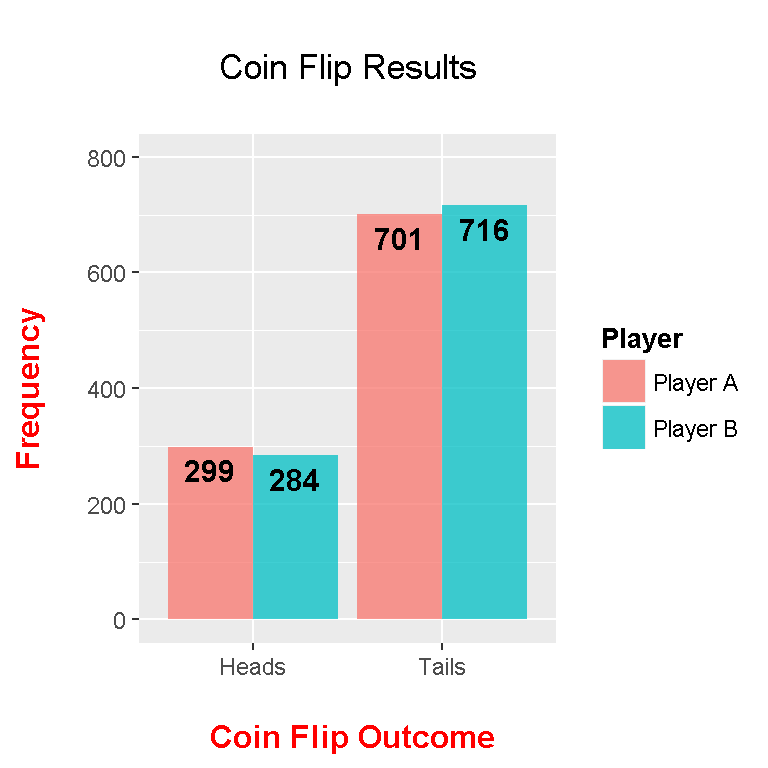
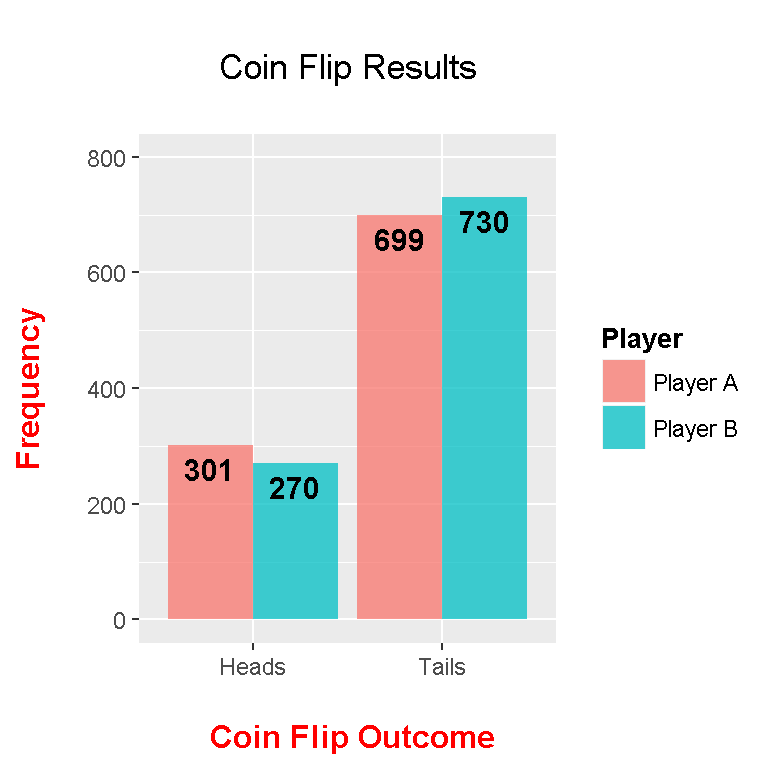
Added more files to the website.

Changed region(s): [[0.25, 0.5938, 0.4375, 0.6562], [0.5625, 0.25, 0.6875, 0.3125], [0.4688, 0.2812, 0.5625, 0.3438]]

diff --git a/rvisual-corrplots.html b/rvisual-corrplots.html
@@ -297,6 +297,7 @@ summary(gamb_data)</code></pre>
 colnames(gamb_data) &lt;- c(&quot;Sex&quot;, &quot;Status&quot;, &quot;Income&quot;, &quot;Verbal&quot;, &quot;Gamble&quot;)</code></pre>
 <p> </p>
 <p>In base R, a correlation table can be created by using the <code>cor()</code> function.</p>
+<p> </p>
 <pre class="r"><code># Correlation
 
 corr_gamb &lt;- cor(gamb_data)
@@ -434,29 +435,69 @@ ggplot(data = melted_gamb, aes(x = Var1, y = Var2, fill = value)) +
 <p>Version Two: Upper Triangular Correlation Plot using ggplot2</p>
 <p>The full correlation matrix provides more than enough information. An upper triangular matrix of the correlation matrix provides less cluster and there is no loss of information. (Recall that the correlation matrix is a symmetric matrix so we can afford to drop the multiple entries.)</p>
 <p>For upper and lower triangular matrices, there is some additional data manipulation work needed to have the data prepared for plotting.</p>
-<blockquote>
-<h1 id="create-new-copy">Create new copy:</h1>
-<p>upper_gamb &lt;- corr_gamb</p>
-<h1 id="make-upper-triangular-matrix-by-setting-na-to-lower-triangular-part">Make upper triangular matrix by setting NA to lower triangular part:</h1>
-<p>upper_gamb[lower.tri(upper_gamb)] &lt;- NA</p>
-<p>upper_gamb Sex Status Income Verbal Gamble Sex 1 -0.4809353 -0.1154586 -0.1069762 -0.40780533 Status NA 1.0000000 -0.2750340 0.5316102 -0.05042081 Income NA NA 1.0000000 -0.1755707 0.62207690 Verbal NA NA NA 1.0000000 -0.22005619 Gamble NA NA NA NA 1.00000000</p>
-<h1 id="melt-this-upper-triangular-matrix-and-remove-na-values">Melt this upper triangular matrix and remove NA values:</h1>
-<p>up_m_gamb &lt;- melt(upper_gamb, na.rm = TRUE)</p>
-<p>head(up_m_gamb) Var1 Var2 value 1 Sex Sex 1.0000000 6 Sex Status -0.4809353 7 Status Status 1.0000000 11 Sex Income -0.1154586 12 Status Income -0.2750340 13 Income Income 1.0000000 tail(up_m_gamb) Var1 Var2 value 19 Verbal Verbal 1.00000000 21 Sex Gamble -0.40780533 22 Status Gamble -0.05042081 23 Income Gamble 0.62207690 24 Verbal Gamble -0.22005619 25 Gamble Gamble 1.00000000 # Ggplot upper triangular correlation matrix:</p>
-<p>ggplot(data = up_m_gamb, aes(x = Var1, y = Var2, fill = value)) + + geom_tile() + + scale_fill_gradient2(midpoint = 0.5, mid =“grey70”, + limits = c(-1, +1)) + + labs(title = “Correlation Matrix On Teen Gambling Data ”, + x = “”, y = “”, fill = “Correlation Measure”) + + theme(plot.title = element_text(hjust = 0.5, colour = “blue”), + axis.title.x = element_text(face=“bold”, colour=“darkgreen”, size = 12), + axis.title.y = element_text(face=“bold”, colour=“darkgreen”, size = 12), + legend.title = element_text(face=“bold”, colour=“brown”, size = 10)) + + geom_text(aes(x = Var1, y = Var2, label = round(value, 2)), color = “black”, + fontface = “bold”, size = 5)</p>
-</blockquote>
+<p> </p>
+<pre class="r"><code># Create new copy:
+
+upper_gamb &lt;- corr_gamb
+
+# Make upper triangular matrix by setting NA to lower triangular part:
+upper_gamb[lower.tri(upper_gamb)] &lt;- NA
+
+upper_gamb</code></pre>
+<pre><code>##        Sex     Status     Income     Verbal      Gamble
+## Sex      1 -0.4809353 -0.1154586 -0.1069762 -0.40780533
+## Status  NA  1.0000000 -0.2750340  0.5316102 -0.05042081
+## Income  NA         NA  1.0000000 -0.1755707  0.62207690
+## Verbal  NA         NA         NA  1.0000000 -0.22005619
+## Gamble  NA         NA         NA         NA  1.00000000</code></pre>
+<p> </p>
+<pre class="r"><code># Melt this upper triangular matrix and remove NA values:
+
+up_m_gamb &lt;- melt(upper_gamb, na.rm = TRUE)
+
+head(up_m_gamb)</code></pre>
+<pre><code>##      Var1   Var2      value
+## 1     Sex    Sex  1.0000000
+## 6     Sex Status -0.4809353
+## 7  Status Status  1.0000000
+## 11    Sex Income -0.1154586
+## 12 Status Income -0.2750340
+## 13 Income Income  1.0000000</code></pre>
+<pre class="r"><code>tail(up_m_gamb)</code></pre>
+<pre><code>##      Var1   Var2       value
+## 19 Verbal Verbal  1.00000000
+## 21    Sex Gamble -0.40780533
+## 22 Status Gamble -0.05042081
+## 23 Income Gamble  0.62207690
+## 24 Verbal Gamble -0.22005619
+## 25 Gamble Gamble  1.00000000</code></pre>
+<pre class="r"><code># Ggplot upper triangular correlation matrix:
+
+ggplot(data = up_m_gamb, aes(x = Var1, y = Var2, fill = value)) +
+  geom_tile() +
+  scale_fill_gradient2(midpoint = 0.5, mid =&quot;grey70&quot;, limits = c(-1, +1)) +
+  labs(title = &quot;Correlation Matrix \n On Teen Gambling Data \n&quot;, 
+  x = &quot;&quot;, y = &quot;&quot;, fill = &quot;Correlation \n Measure&quot;) +
+  theme(plot.title = element_text(hjust = 0.5, colour = &quot;blue&quot;), 
+  axis.title.x = element_text(face=&quot;bold&quot;, colour=&quot;darkgreen&quot;, size = 12),
+  axis.title.y = element_text(face=&quot;bold&quot;, colour=&quot;darkgreen&quot;, size = 12),
+  legend.title = element_text(face=&quot;bold&quot;, colour=&quot;brown&quot;, size = 10)) +
+  geom_text(aes(x = Var1, y = Var2, label = round(value, 2)), color = &quot;black&quot;, 
+  fontface = &quot;bold&quot;, size = 5)</code></pre>
+<p><img src="rvisual-corrplots_files/figure-html/unnamed-chunk-16-1.png" width="384" /></p>
+<p> </p>
 <p>Having a upper triangular matrix version of the correlation matrix is less intimidating and it is easier to read. You may have to explain that for example that the correlation of income and status and the correlation of status and income are the same (due to symmetry).</p>
 <p>(This upper triangular matrix form is not exactly like the one from linear algebra but I think the above image is good enough for displaying purposes.)</p>
 <p>Version Three: Lower Triangular Correlation Plot using ggplot2</p>
 <p>Here is the code and output for the lower triangular part of the correlation matrix. The code is similar to the upper triangular case.</p>
 <blockquote>
 <h2 id="version-three-lower-triangular-correlation-plot-using-ggplot2">Version Three: Lower Triangular Correlation Plot using ggplot2:</h2>
-<h1 id="create-new-copy-1">Create new copy:</h1>
+<h1 id="create-new-copy">Create new copy:</h1>
 <p>lower_gamb &lt;- corr_gamb</p>
 <h1 id="make-lower-triangular-matrix-by-setting-na-to-upper-triangular-part">Make lower triangular matrix by setting NA to upper triangular part:</h1>
 <p>lower_gamb[upper.tri(lower_gamb)] &lt;- NA</p>
 <p>lower_gamb Sex Status Income Verbal Gamble Sex 1.0000000 NA NA NA NA Status -0.4809353 1.00000000 NA NA NA Income -0.1154586 -0.27503402 1.0000000 NA NA Verbal -0.1069762 0.53161022 -0.1755707 1.0000000 NA Gamble -0.4078053 -0.05042081 0.6220769 -0.2200562 1</p>
-<h1 id="melt-this-upper-triangular-matrix-and-remove-na-values-1">Melt this upper triangular matrix and remove NA values:</h1>
+<h1 id="melt-this-upper-triangular-matrix-and-remove-na-values">Melt this upper triangular matrix and remove NA values:</h1>
 <p>lower_m_gamb &lt;- melt(lower_gamb, na.rm = TRUE)</p>
 <p>head(lower_m_gamb) Var1 Var2 value 1 Sex Sex 1.0000000 2 Status Sex -0.4809353 3 Income Sex -0.1154586 4 Verbal Sex -0.1069762 5 Gamble Sex -0.4078053 7 Status Status 1.0000000 tail(lower_m_gamb) Var1 Var2 value 13 Income Income 1.0000000 14 Verbal Income -0.1755707 15 Gamble Income 0.6220769 19 Verbal Verbal 1.0000000 20 Gamble Verbal -0.2200562 25 Gamble Gamble 1.0000000 # Ggplot lower triangular correlation matrix:</p>
 </blockquote>

diff --git a/rvisual-pokemon-table.html b/rvisual-pokemon-table.html
@@ -11,7 +11,7 @@
 
 
 
-<title>Creating A Pokémon (Gen 6+) Types Table In R</title>
+<title>Creating A Pokemon (Gen 6+) Types Table In R</title>
 
 <script src="site_libs/jquery-1.11.3/jquery.min.js"></script>
 <meta name="viewport" content="width=device-width, initial-scale=1" />
@@ -205,7 +205,7 @@ $(document).ready(function () {
 
 
 
-<h1 class="title toc-ignore">Creating A Pokémon (Gen 6+) Types Table In R</h1>
+<h1 class="title toc-ignore">Creating A Pokemon (Gen 6+) Types Table In R</h1>
 
 </div>
 
@@ -247,7 +247,7 @@ $(document).ready(function () {
 <p> </p>
 </div>
 <div id="a-pokemon-types-table-gen-6" class="section level3">
-<h3><u>A Pokémon Types Table (Gen 6+)</u></h3>
+<h3><u>A Pokemon Types Table (Gen 6+)</u></h3>
 <p> </p>
 <p>The <code>geom_tile()</code> function from R’s ggplot2 package allows for grid plots and tables.</p>
 <p>In R you can make something as close to this:</p>
@@ -260,9 +260,9 @@ $(document).ready(function () {
 <p> </p>
 </div>
 <div id="creating-a-pokemon-types-table-in-r" class="section level3">
-<h3><u>Creating A Pokémon Types Table In R</u></h3>
+<h3><u>Creating A Pokemon Types Table In R</u></h3>
 <p> </p>
-<p>We start with creating the table of Pokémon Types with their damage multipliers. In this page we include all the type including Dark, Steel and the Fairy type.</p>
+<p>We start with creating the table of Pokemon Types with their damage multipliers. In this page we include all the type including Dark, Steel and the Fairy type.</p>
 <p>This first line of R code is for creating the Pokémon Types as a vector.</p>
 <p> </p>
 <pre class="r"><code># Reference: http://pokemondb.net/type
@@ -280,7 +280,7 @@ pokemonTypes&lt;- c(&quot;Normal&quot;, &quot;Fire&quot;, &quot;Water&quot;, &qu
 length(pokemonTypes)</code></pre>
 <pre><code>## [1] 18</code></pre>
 <p> </p>
-<p>Since there are 18 Pokémon types, we would need 18 x 18 = 324 cases in our data table. These 324 cases translates to 324 rows in our table. The table could be inputted manually but that would take too long. Instead, the use of Cartesian products from the mathematical field of Set Theory along with R’s <code>expand.grid()</code> function is applied. Please refer to the code and output below.</p>
+<p>Since there are 18 Pokemon types, we would need 18 x 18 = 324 cases in our data table. These 324 cases translates to 324 rows in our table. The table could be inputted manually but that would take too long. Instead, the use of Cartesian products from the mathematical field of Set Theory along with R’s <code>expand.grid()</code> function is applied. Please refer to the code and output below.</p>
 <p> </p>
 <pre class="r"><code># Create Cartesian Product Type Table: 
 # Attacker in Column 1 and Defender in Column 2
@@ -288,7 +288,7 @@ length(pokemonTypes)</code></pre>
 pokeTable &lt;- expand.grid(pokemonTypes, pokemonTypes)
 pokeTable &lt;- as.data.frame(pokeTable)</code></pre>
 <p> </p>
-<p>We can check the dimensions of this Cartesian product table of Pokémon types.</p>
+<p>We can check the dimensions of this Cartesian product table of Pokemon types.</p>
 <p> </p>
 <pre class="r"><code># Check dimensions (18 x 18 = 324 combinations):
 
@@ -440,6 +440,7 @@ pokeTable[289:306, 3] &lt;- c(1/2, 2, 1, 1, 1/2, 1/2, 2, 0, 2, 1/2, 1/2, 1/2, 1/
 pokeTable[307:324, 3] &lt;- c(1, 1, 1, 1, 1, 1, 1/2, 2, 1, 1, 1, 1/2, 1, 1, 0, 1/2, 2, 1)</code></pre>
 <p> </p>
 <p>This next piece of code involves having the values from the third column as factors. In addition, I check the structure of the table and use the <code>head()</code> and <code>tail()</code> functions.</p>
+<p> </p>
 <pre class="r"><code># Have the multipliers in column 3 as factors:
 
 pokeTable[, 3] &lt;- as.factor(pokeTable[, 3])
@@ -486,14 +487,14 @@ head(pokeTable, n = 10)</code></pre>
 <hr />
 </div>
 <div id="creating-the-pokemon-types-matrix-plot-in-r" class="section level3">
-<h3><u>Creating The Pokémon Types Matrix Plot In R</u></h3>
+<h3><u>Creating The Pokemon Types Matrix Plot In R</u></h3>
 <p>&amp;nbsp</p>
 <p>The table of Pokémon Types and damage multipliers is now ready for plotting purposes.</p>
 <p>The ggplot2 package in R for data visualization is first loaded.</p>
 <p>&amp;nbsp</p>
 <pre class="r"><code>library(ggplot2)</code></pre>
 <p>&amp;nbsp</p>
-<p>Here is the code and output for the Pokémon types matrix plot. In this plot, the defending Pokémon types are on the x-axis (horizontal) and the attacking move type is on the y-axis (side/vertical).</p>
+<p>Here is the code and output for the Pokemon types matrix plot. In this plot, the defending Pokemon types are on the x-axis (horizontal) and the attacking move type is on the y-axis (side/vertical).</p>
 <p> </p>
 <pre class="r"><code>## Attack Type on x-axis and Defense Type on y-axis with x-axis labels on top:
 
@@ -521,12 +522,12 @@ ggplot(pokeTable,aes(x = pokeTable[, 2],y = pokeTable[, 1], fill = pokeTable[, 3
 <p>There are dual-typed Pokemon tables out there but you could use the single type table twice. As an example, an Ice type move to a Grass and Water type would deal normal damage (x1) as we have the multipliers of 2 and 1/2.</p>
 <p><strong>Simple Table Observations</strong></p>
 <ul>
-<li>One could use these types of tables to study type matchups for Pokémon selections in certain video games and competitions.</li>
-<li>The Steel Type is still a very solid defensive choice as a lot of attacks do half damage to Steel types.</li>
-<li>Poison as an attacking type is not very great despite its advantage over the Fairy type.</li>
-<li>It is somewhat difficult to pick out the best attacking types. Candidates include Ground, Fire, Ice and Rock types.</li>
-<li>The Fairy type is okay for attacking. Its defense is decent as Dark, Fighting and Bug attacks are not very effective versus Fairy types. Dragon attacks have no effect on Fairy types. Only * Steel and Poison moves are super effective versus Fairy.</li>
-<li>The Fire type is a good defensive type as well.</li>
+<li><p>One could use these types of tables to study type matchups for Pokémon selections in certain video games and competitions.</p></li>
+<li><p>The Steel Type is still a very solid defensive choice as a lot of attacks do half damage to Steel types.</p></li>
+<li><p>Poison as an attacking type is not very great despite its advantage over the Fairy type.</p></li>
+<li><p>It is somewhat difficult to pick out the best attacking types. Candidates include Ground, Fire, Ice and Rock types.</p></li>
+<li><p>The Fairy type is okay for attacking. Its defense is decent as Dark, Fighting and Bug attacks are not very effective versus Fairy types. Dragon attacks have no effect on Fairy types. Only * Steel and Poison moves are super effective versus Fairy.</p></li>
+<li><p>The Fire type is a good defensive type as well.</p></li>
 </ul>
 </div>
 

diff --git a/rvisual-scatterplots-ggvis.html b/rvisual-scatterplots-ggvis.html
@@ -349,27 +349,27 @@ ggvis(x = ~pop_size, y = ~internet_users) %&gt;%
   add_axis(&quot;x&quot;, title = &quot;Population Size (In Hundred Thousands)&quot;,  title_offset = 50) %&gt;%
   add_axis(&quot;y&quot;, title = &quot;Number of Internet Users (In Hundred Thousands)&quot;,title_offset = 50)</code></pre>
 <pre><code>## Guessing formula = internet_users ~ pop_size</code></pre>
-<div id="plot_id252003560-container" class="ggvis-output-container">
-<div id="plot_id252003560" class="ggvis-output"></div>
+<div id="plot_id799889604-container" class="ggvis-output-container">
+<div id="plot_id799889604" class="ggvis-output"></div>
 <div class="plot-gear-icon">
 <nav class="ggvis-control">
 <a class="ggvis-dropdown-toggle" title="Controls" onclick="return false;"></a>
 <ul class="ggvis-dropdown">
 <li>
 Renderer: 
-<a id="plot_id252003560_renderer_svg" class="ggvis-renderer-button" onclick="return false;" data-plot-id="plot_id252003560" data-renderer="svg">SVG</a>
+<a id="plot_id799889604_renderer_svg" class="ggvis-renderer-button" onclick="return false;" data-plot-id="plot_id799889604" data-renderer="svg">SVG</a>
  | 
-<a id="plot_id252003560_renderer_canvas" class="ggvis-renderer-button" onclick="return false;" data-plot-id="plot_id252003560" data-renderer="canvas">Canvas</a>
+<a id="plot_id799889604_renderer_canvas" class="ggvis-renderer-button" onclick="return false;" data-plot-id="plot_id799889604" data-renderer="canvas">Canvas</a>
 </li>
 <li>
-<a id="plot_id252003560_download" class="ggvis-download" data-plot-id="plot_id252003560">Download</a>
+<a id="plot_id799889604_download" class="ggvis-download" data-plot-id="plot_id799889604">Download</a>
 </li>
 </ul>
 </nav>
 </div>
 </div>
 <script type="text/javascript">
-var plot_id252003560_spec = {
+var plot_id799889604_spec = {
   "data": [
     {
       "name": ".0",
@@ -573,7 +573,7 @@ var plot_id252003560_spec = {
   },
   "handlers": null
 };
-ggvis.getPlot("plot_id252003560").parseSpec(plot_id252003560_spec);
+ggvis.getPlot("plot_id799889604").parseSpec(plot_id799889604_spec);
 </script>
 <p> </p>
 <p>Above is the visual of the scatterplot and a linear model (“line of best fit”). If we want the linear model in a more mathematical form such as <span class="math inline">\(y = mx + b\)</span> we run this code.</p>
@@ -624,27 +624,27 @@ internet_user_data %&gt;%
   add_axis(&quot;x&quot;, title = &quot;Number of Internet Users (In Hundred Thousands)&quot;, title_offset = 50) %&gt;%
   add_axis(&quot;y&quot;, title = &quot;Number of Facebook Users (In Hundred Thousands)&quot;,title_offset = 50)</code></pre>
 <pre><code>## Guessing formula = facebook_users ~ internet_users</code></pre>
-<div id="plot_id881433065-container" class="ggvis-output-container">
-<div id="plot_id881433065" class="ggvis-output"></div>
+<div id="plot_id778860462-container" class="ggvis-output-container">
+<div id="plot_id778860462" class="ggvis-output"></div>
 <div class="plot-gear-icon">
 <nav class="ggvis-control">
 <a class="ggvis-dropdown-toggle" title="Controls" onclick="return false;"></a>
 <ul class="ggvis-dropdown">
 <li>
 Renderer: 
-<a id="plot_id881433065_renderer_svg" class="ggvis-renderer-button" onclick="return false;" data-plot-id="plot_id881433065" data-renderer="svg">SVG</a>
+<a id="plot_id778860462_renderer_svg" class="ggvis-renderer-button" onclick="return false;" data-plot-id="plot_id778860462" data-renderer="svg">SVG</a>
  | 
-<a id="plot_id881433065_renderer_canvas" class="ggvis-renderer-button" onclick="return false;" data-plot-id="plot_id881433065" data-renderer="canvas">Canvas</a>
+<a id="plot_id778860462_renderer_canvas" class="ggvis-renderer-button" onclick="return false;" data-plot-id="plot_id778860462" data-renderer="canvas">Canvas</a>
 </li>
 <li>
-<a id="plot_id881433065_download" class="ggvis-download" data-plot-id="plot_id881433065">Download</a>
+<a id="plot_id778860462_download" class="ggvis-download" data-plot-id="plot_id778860462">Download</a>
 </li>
 </ul>
 </nav>
 </div>
 </div>
 <script type="text/javascript">
-var plot_id881433065_spec = {
+var plot_id778860462_spec = {
   "data": [
     {
       "name": ".0",
@@ -848,7 +848,7 @@ var plot_id881433065_spec = {
   },
   "handlers": null
 };
-ggvis.getPlot("plot_id881433065").parseSpec(plot_id881433065_spec);
+ggvis.getPlot("plot_id778860462").parseSpec(plot_id778860462_spec);
 </script>
 <p> </p>
 <p>The slope here is positive (upward sloping) and is less steep (more flat). Let’s find out what the linear model is.</p>

diff --git a/rvisual-sidebyside-bar.html b/rvisual-sidebyside-bar.html
@@ -243,10 +243,10 @@ flip_results_B &lt;- sample(c(&quot;Heads&quot;, &quot;Tails&quot;), size = 1000
 table(flip_results_A) ; table(flip_results_B)</code></pre>
 <pre><code>## flip_results_A
 ## Heads Tails 
-##   299   701</code></pre>
+##   301   699</code></pre>
 <pre><code>## flip_results_B
 ## Heads Tails 
-##   284   716</code></pre>
+##   270   730</code></pre>
 <p> </p>
 <p>The next lines of code is about putting the results together in a data table format.</p>
 <p> </p>
@@ -266,17 +266,17 @@ flip_results &lt;- data.frame(Player = factor(column1, levels = c(&quot;Player A
 head(flip_results); tail(flip_results)</code></pre>
 <pre><code>##     Player Result
 ## 1 Player A  Tails
-## 2 Player A  Heads
+## 2 Player A  Tails
 ## 3 Player A  Tails
-## 4 Player A  Tails
+## 4 Player A  Heads
 ## 5 Player A  Tails
-## 6 Player A  Tails</code></pre>
+## 6 Player A  Heads</code></pre>
 <pre><code>##        Player Result
-## 1995 Player B  Heads
-## 1996 Player B  Heads
+## 1995 Player B  Tails
+## 1996 Player B  Tails
 ## 1997 Player B  Tails
-## 1998 Player B  Tails
-## 1999 Player B  Heads
+## 1998 Player B  Heads
+## 1999 Player B  Tails
 ## 2000 Player B  Tails</code></pre>
 <p> </p>
 <p>These coin flip results can be converted into a two by two table as a different visual. For graphing purposes, this 2 by 2 table is converted into a data frame.</p>
@@ -284,8 +284,8 @@ head(flip_results); tail(flip_results)</code></pre>
 <pre class="r"><code>table(flip_results)</code></pre>
 <pre><code>##           Result
 ## Player     Heads Tails
-##   Player A   299   701
-##   Player B   284   716</code></pre>
+##   Player A   301   699
+##   Player B   270   730</code></pre>
 <pre class="r"><code># The two by two table into a data frame for plotting:
 
 results &lt;- data.frame(table(flip_results))</code></pre>

diff --git a/mathstats_pages.html b/mathstats_pages.html
@@ -211,8 +211,8 @@ $(document).ready(function () {
 
 
 <p> </p>
-<div id="mathematics-topics" class="section level1">
-<h1><u>Mathematics Topics</u></h1>
+<div id="categories" class="section level1">
+<h1><u>Categories</u></h1>
 <p> </p>
 <div id="unsorted" class="section level3">
 <h3><u>Unsorted</u></h3>
@@ -293,7 +293,10 @@ $(document).ready(function () {
 </div>
 <div id="differential-equations" class="section level3">
 <h3><u>Differential Equations</u></h3>
+<p> </p>
 <p><a href="./odes-separable.html">Solving Separable Ordinary Differential Equations (ODEs)</a></p>
+<p><a href="./odes-ordinary-odes.html">Solving Linear Ordinary Differential Equations</a></p>
+<p><a href="./ode-heaviside.html">The Heaviside Function</a></p>
 <p> </p>
 </div>
 <div id="set-theory" class="section level3">

diff --git a/rvisual-multiple-plots.html b/rvisual-multiple-plots.html
@@ -217,6 +217,11 @@ $(document).ready(function () {
 <pre class="r"><code>library(ggplot2)
 library(gridExtra)</code></pre>
 <pre><code>## Warning: package &#39;gridExtra&#39; was built under R version 3.4.4</code></pre>
+<pre><code>## 
+## Attaching package: &#39;gridExtra&#39;</code></pre>
+<pre><code>## The following object is masked from &#39;package:dplyr&#39;:
+## 
+##     combine</code></pre>
 <p> </p>
 <div id="simulating-normal-random-variables-plot" class="section level3">
 <h3><u>Simulating Normal Random Variables Plot</u></h3>

diff --git a/stats-mean-median-mode-more.html b/stats-mean-median-mode-more.html
@@ -216,7 +216,10 @@ $(document).ready(function () {
 <p> </p>
 <div id="topics" class="section level3">
 <h3><u>Topics</u></h3>
+<p> </p>
 <ul>
+<li></li>
+<li></li>
 <li></li>
 </ul>
 <p> </p>
